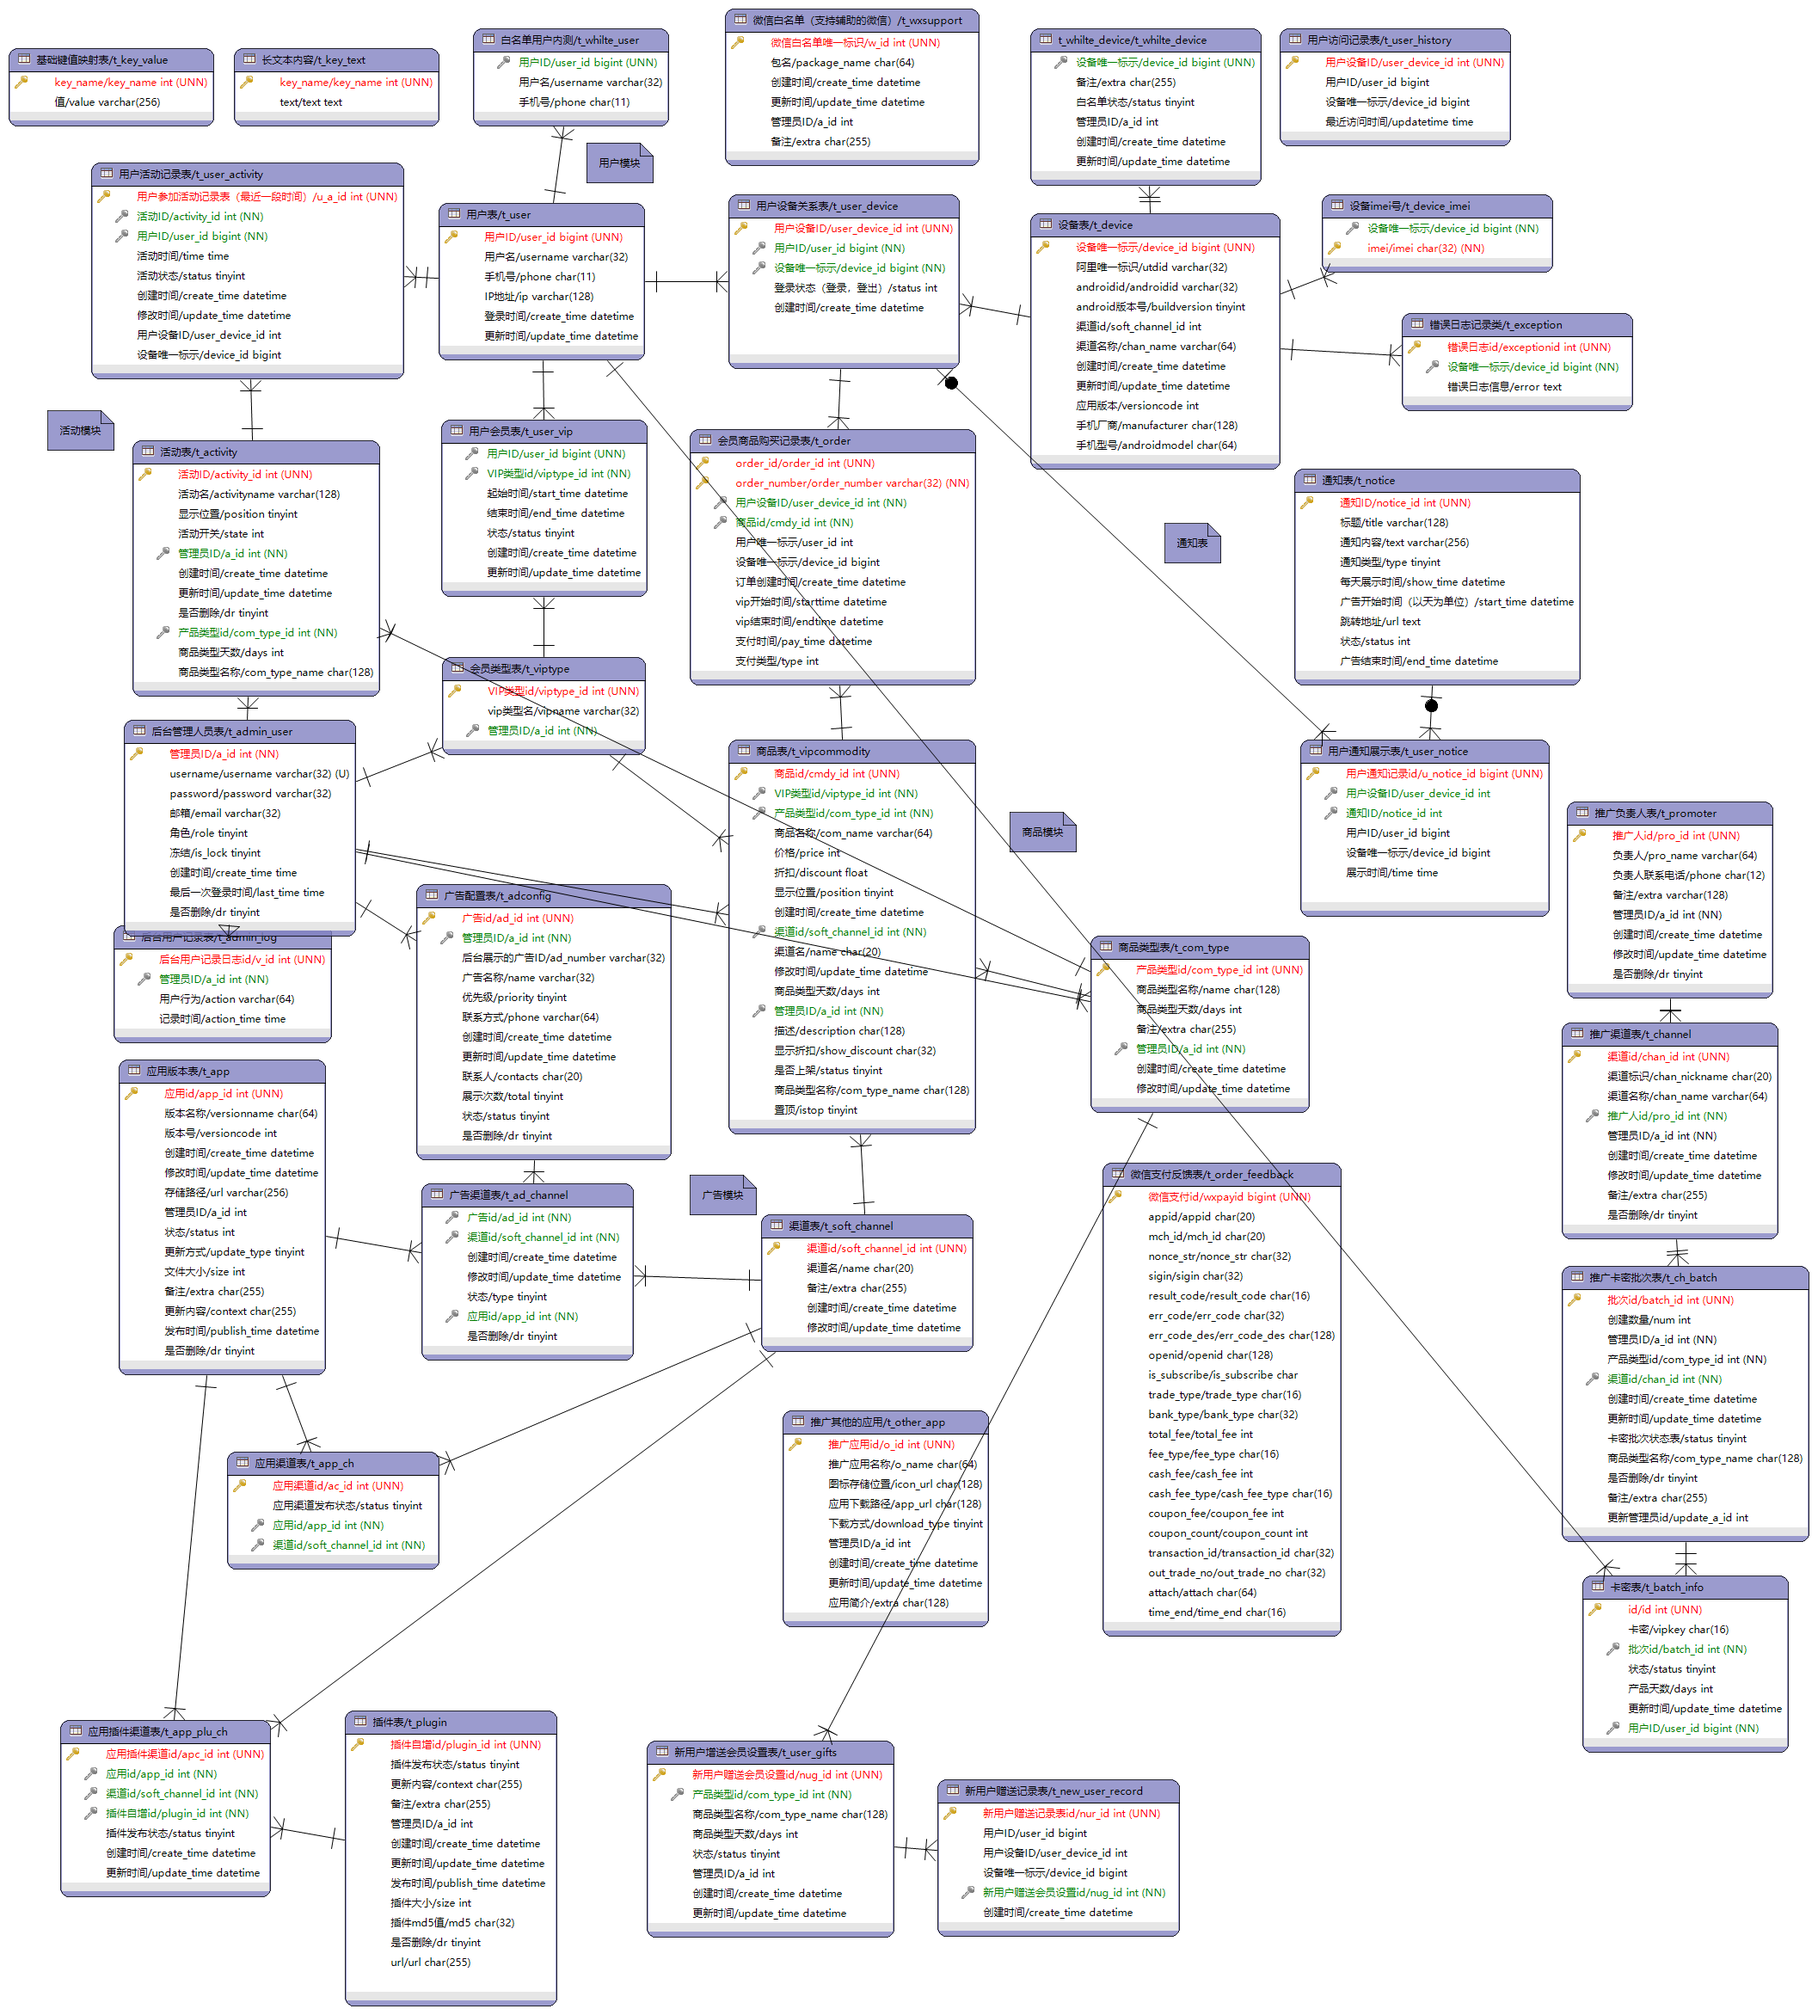
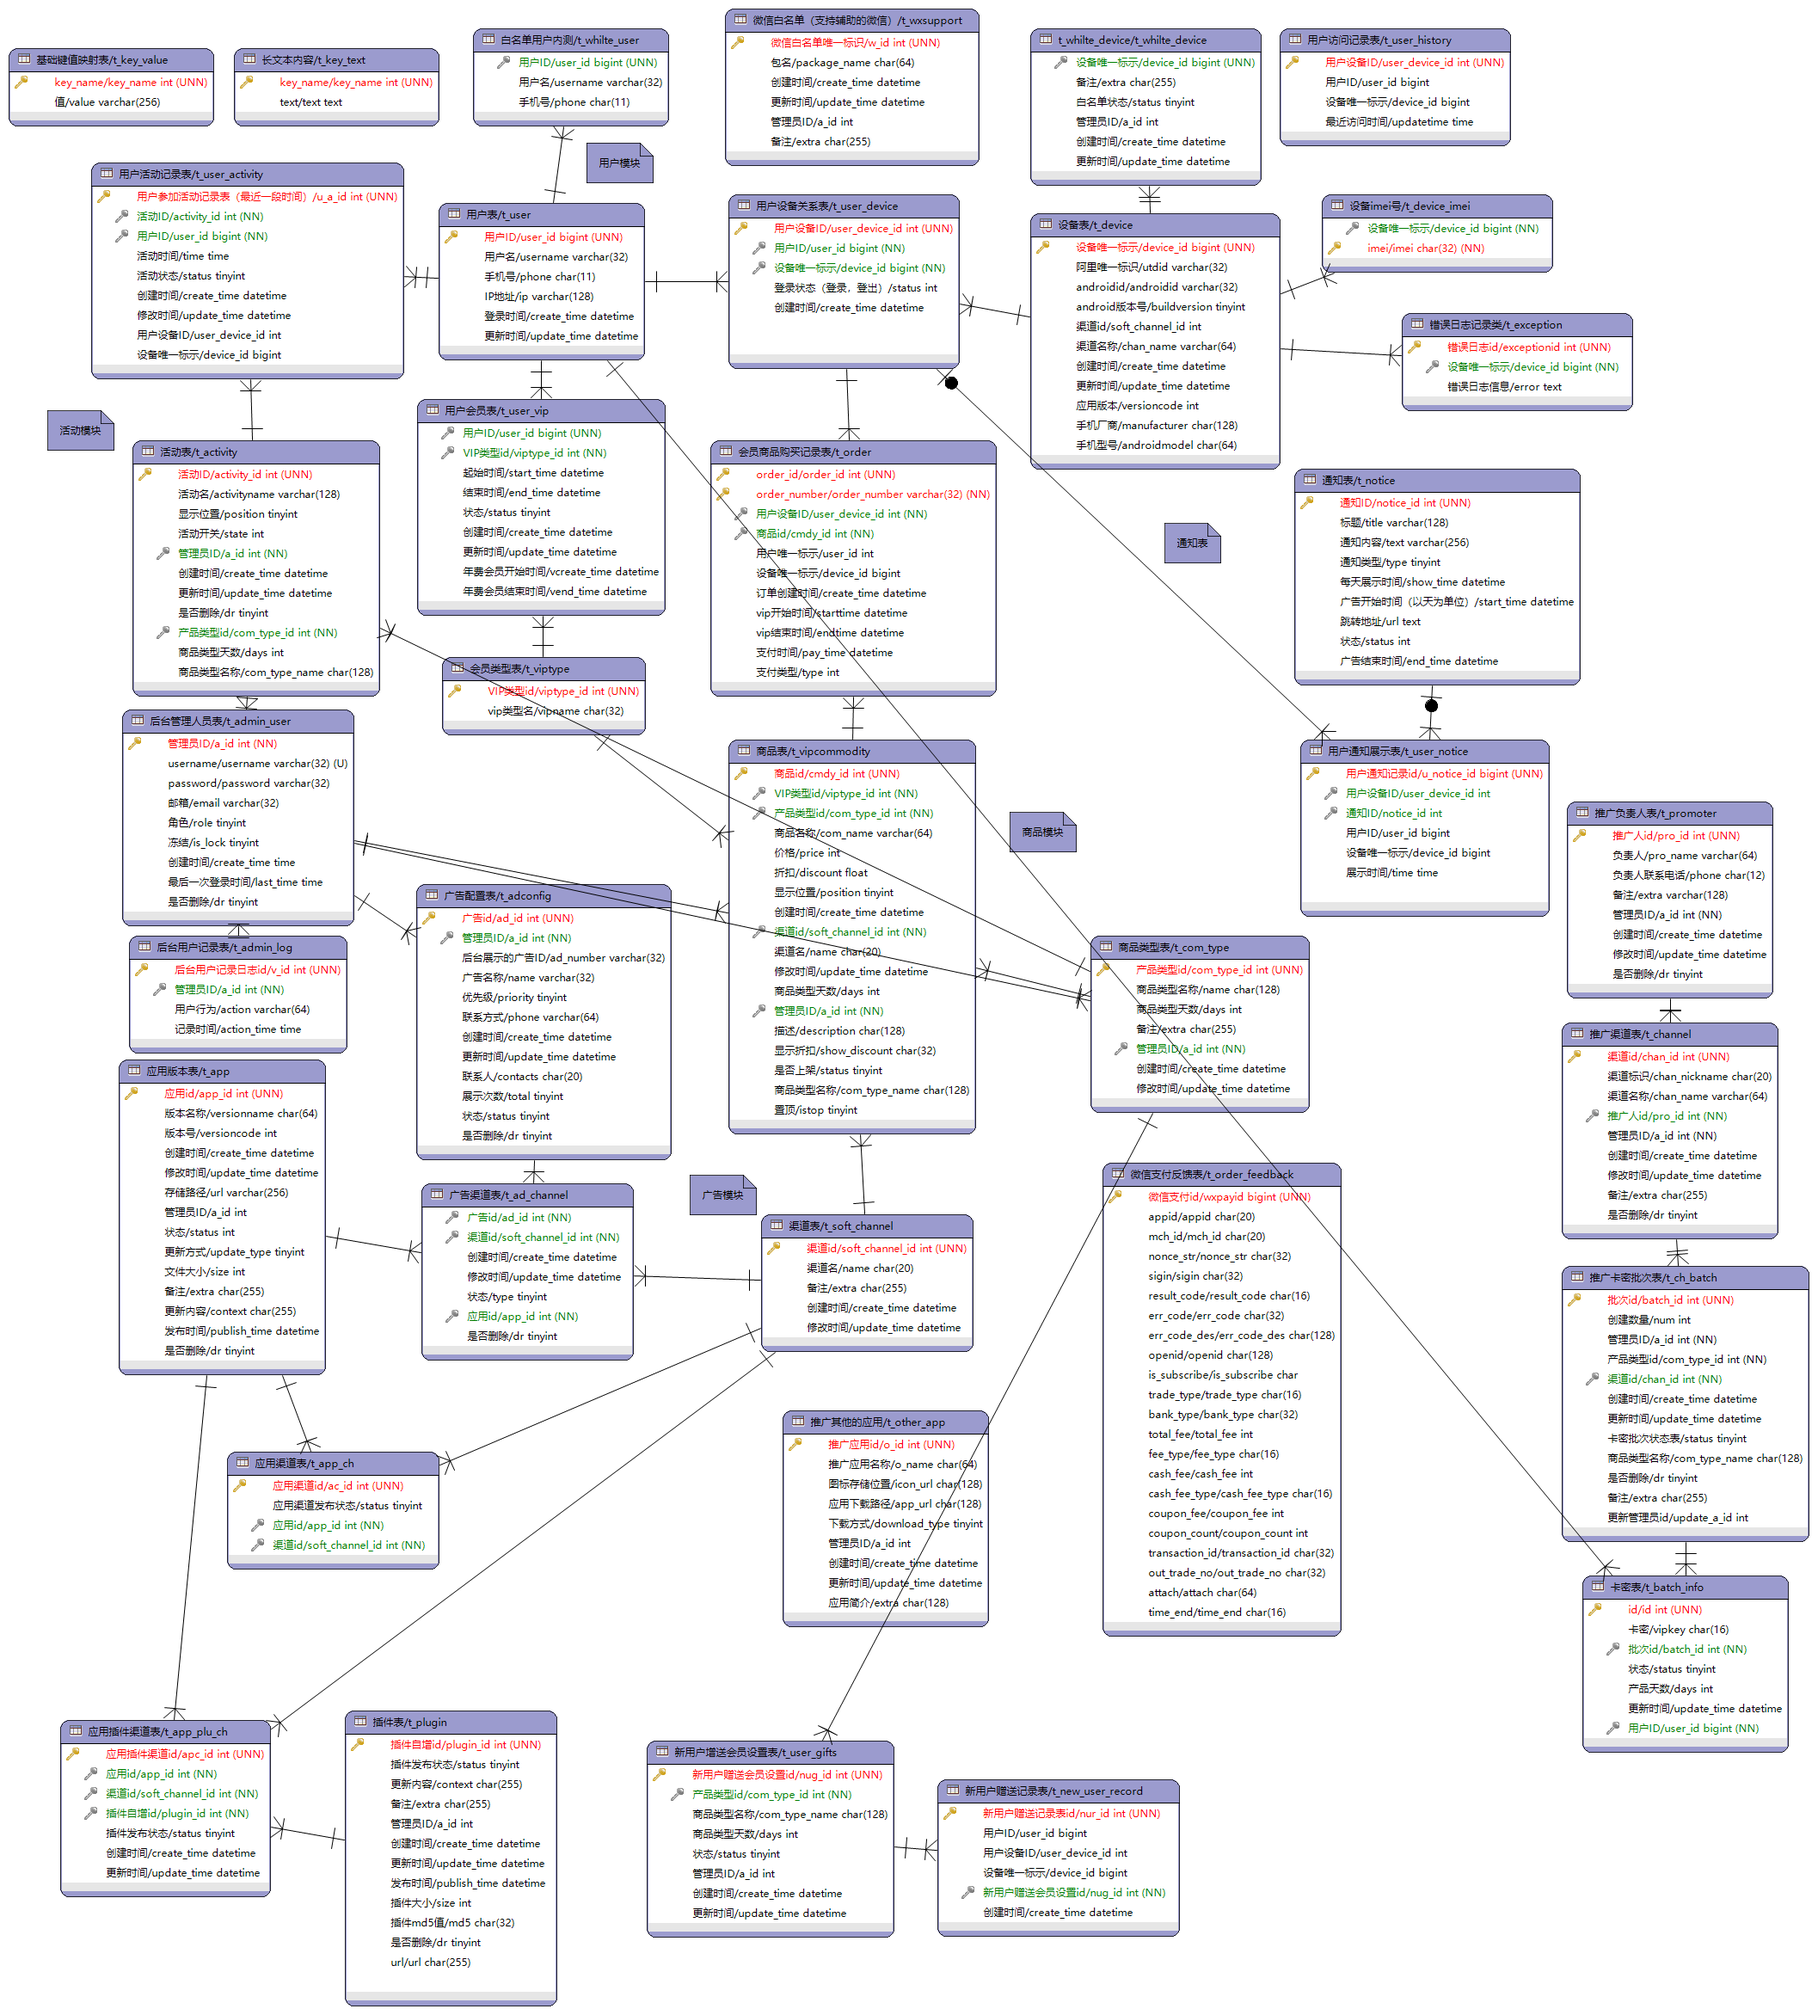
update t_viptype

Changed region(s): [[0.2185, 0.1869, 0.562, 0.3739], [0.0624, 0.3427, 0.3746, 0.5297], [0.3746, 0.4362, 0.4059, 0.4673]]

diff --git a/smartweb/src/main/java/com/rpa/web/pojo/VipTypePO.java b/smartweb/src/main/java/com/rpa/web/pojo/VipTypePO.java
@@ -14,8 +14,6 @@ public class VipTypePO implements Serializable {
      */
     private String vipname;
 
-    private Integer aId;
-
     private static final long serialVersionUID = 1L;
 
     public Integer getViptypeId() {
@@ -34,14 +32,6 @@ public class VipTypePO implements Serializable {
         this.vipname = vipname;
     }
 
-    public Integer getaId() {
-        return aId;
-    }
-
-    public void setaId(Integer aId) {
-        this.aId = aId;
-    }
-
     @Override
     public boolean equals(Object that) {
         if (this == that) {
@@ -55,8 +45,7 @@ public class VipTypePO implements Serializable {
         }
         VipTypePO other = (VipTypePO) that;
         return (this.getViptypeId() == null ? other.getViptypeId() == null : this.getViptypeId().equals(other.getViptypeId()))
-            && (this.getVipname() == null ? other.getVipname() == null : this.getVipname().equals(other.getVipname()))
-            && (this.getaId() == null ? other.getaId() == null : this.getaId().equals(other.getaId()));
+            && (this.getVipname() == null ? other.getVipname() == null : this.getVipname().equals(other.getVipname()));
     }
 
     @Override
@@ -65,7 +54,6 @@ public class VipTypePO implements Serializable {
         int result = 1;
         result = prime * result + ((getViptypeId() == null) ? 0 : getViptypeId().hashCode());
         result = prime * result + ((getVipname() == null) ? 0 : getVipname().hashCode());
-        result = prime * result + ((getaId() == null) ? 0 : getaId().hashCode());
         return result;
     }
 
@@ -77,7 +65,6 @@ public class VipTypePO implements Serializable {
         sb.append("Hash = ").append(hashCode());
         sb.append(", viptypeId=").append(viptypeId);
         sb.append(", vipname=").append(vipname);
-        sb.append(", aId=").append(aId);
         sb.append(", serialVersionUID=").append(serialVersionUID);
         sb.append("]");
         return sb.toString();
